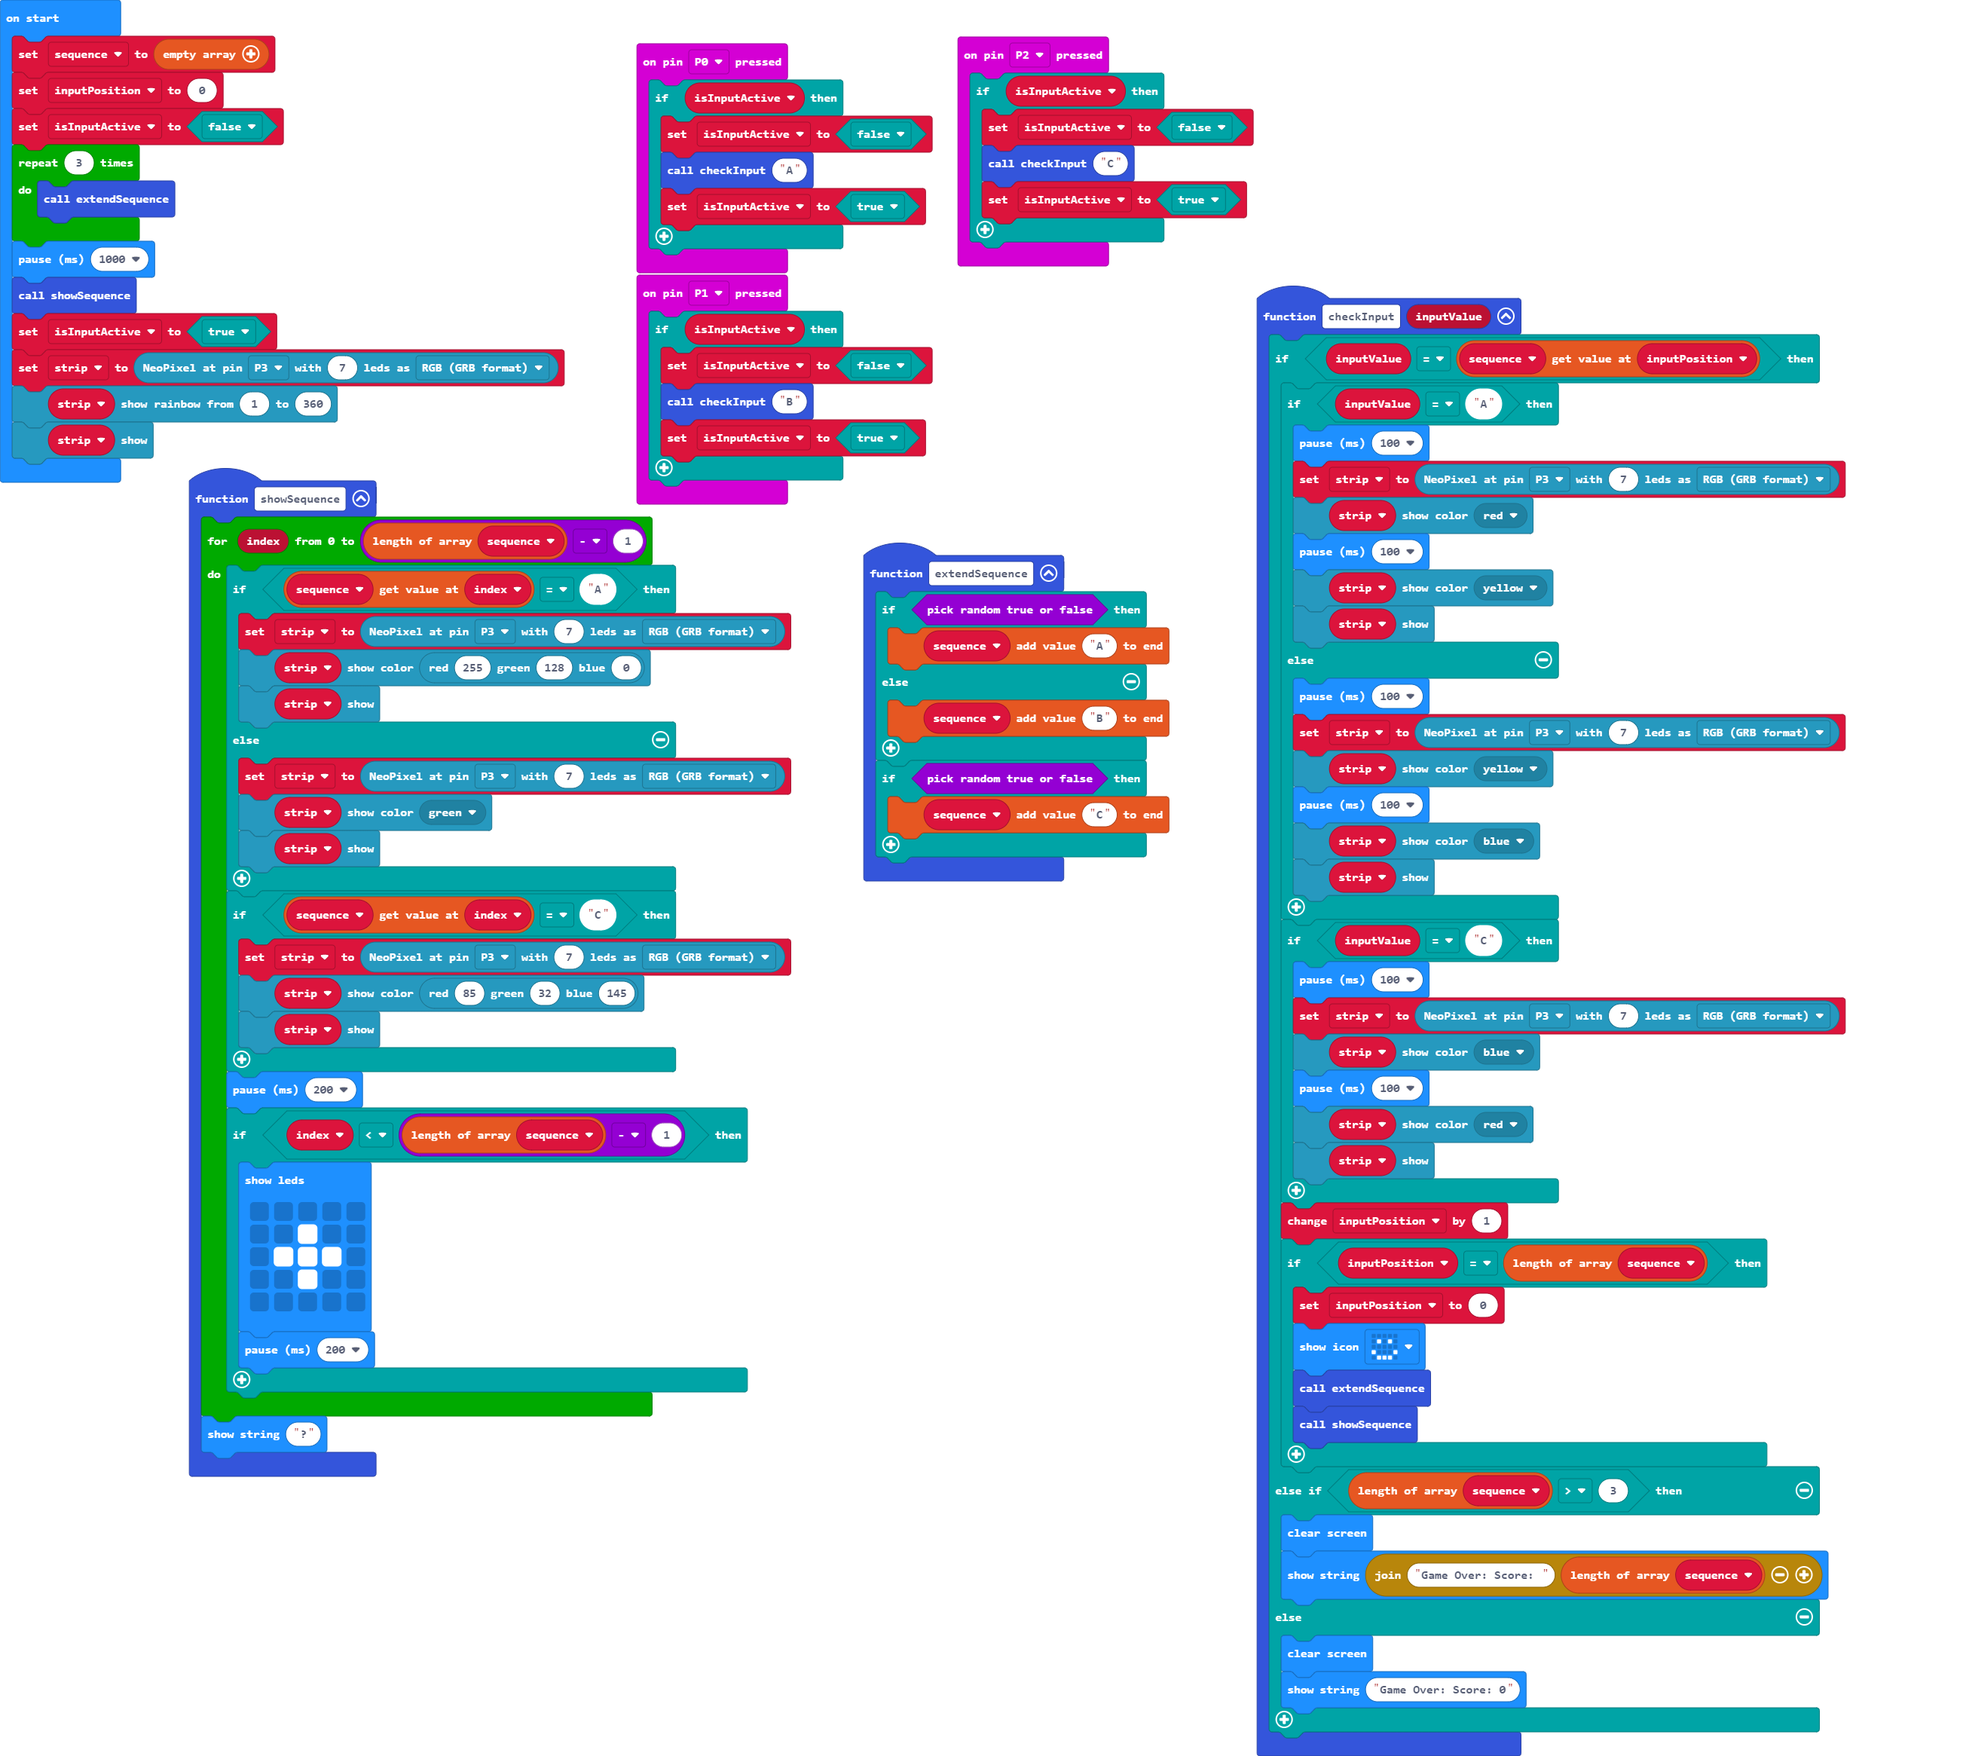
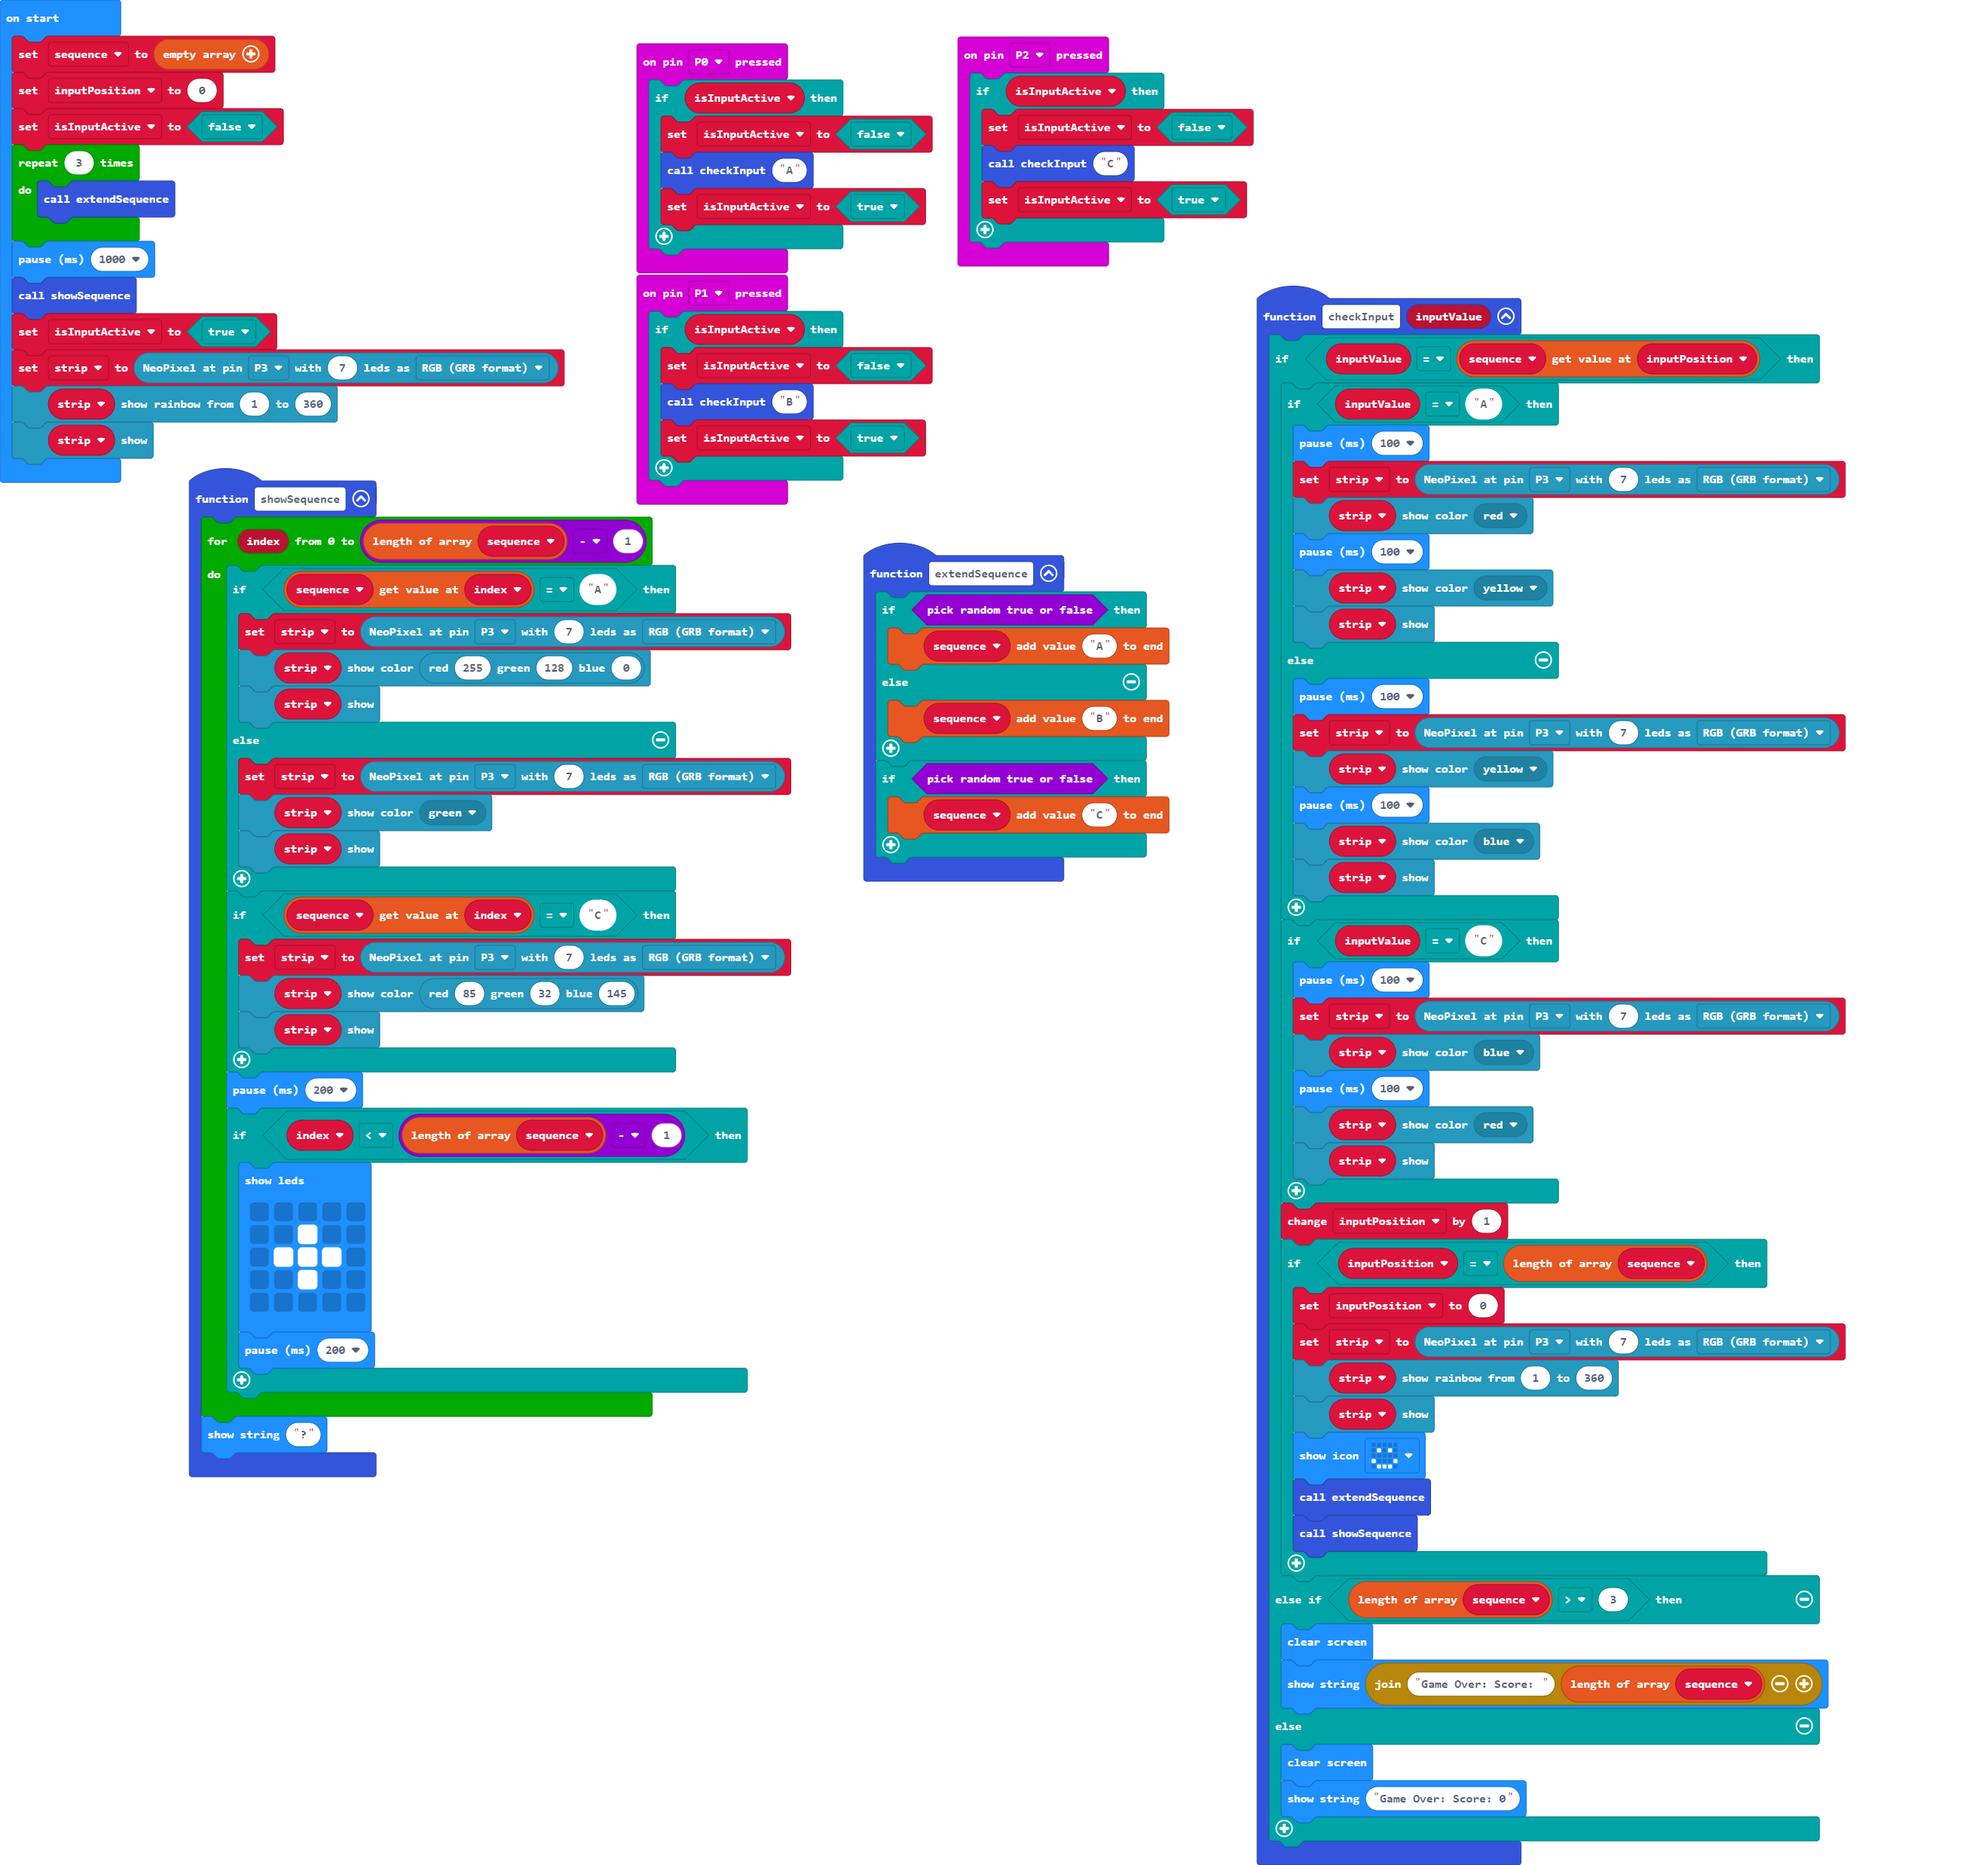
add lights to be rainbow when sequence is correct

Changed region(s): [[0.0, 0.0, 0.653, 0.8652], [0.6219, 0.1545, 0.9639, 0.9888]]

diff --git a/main.ts b/main.ts
@@ -26,6 +26,9 @@ function checkInput (inputValue: string) {
         inputPosition += 1
         if (inputPosition == sequence.length) {
             inputPosition = 0
+            strip = neopixel.create(DigitalPin.P3, 7, NeoPixelMode.RGB)
+            strip.showRainbow(1, 360)
+            strip.show()
             basic.showIcon(IconNames.Happy)
             extendSequence()
             showSequence()
